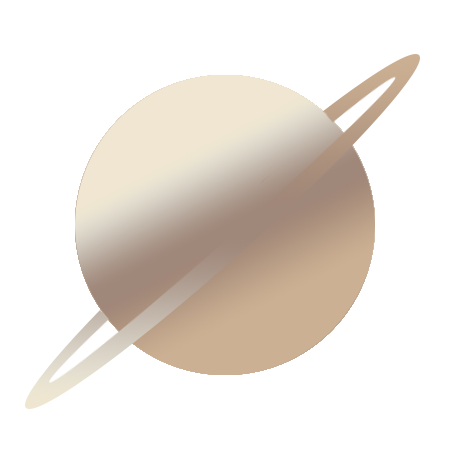
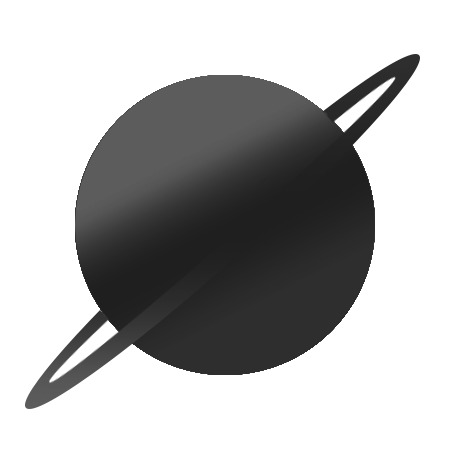
Refactoring requests

diff --git a/quinzena9/LabeX/labex/src/services/requests.js b/quinzena9/LabeX/labex/src/services/requests.js
@@ -1,23 +1,16 @@
 import axios from 'axios'
 import { BASE_URL } from '../constants/urls'
 
+// Get Token 
+const token = localStorage.getItem('Token')
+const auth = { headers: { auth: token } }
 
 // Aplicar para Viagem
 
 export const applyToTrip = (e, tripId, formValues, setFormValues) => {
     e.preventDefault()
-    
-    const { name, age, applicationText, profession, country } = formValues
 
-    const body = {
-        name,
-        age,
-        applicationText,
-        profession,
-        country
-    }
-
-    axios.post(`${BASE_URL}/trips/${tripId}/apply`, body)
+    axios.post(`${BASE_URL}/trips/${tripId}/apply`, formValues)
     .then(() => {
         alert('Sucess')
         setFormValues({
@@ -33,18 +26,10 @@ export const applyToTrip = (e, tripId, formValues, setFormValues) => {
 
 // Login
 
-export const login = (e, loginValues, setLoginValues, navigate) => {
-    
+export const login = (e, loginValues, setLoginValues, navigate) => { 
     e.preventDefault()
 
-    const { email, password } = loginValues
-
-    const body = {
-        email,
-        password
-    }
-
-    axios.post(`${BASE_URL}/login`, body).then(res => {
+    axios.post(`${BASE_URL}/login`, loginValues).then(res => {
         localStorage.setItem('Token', res.data.token)
         setLoginValues({
             email: '',
@@ -57,24 +42,10 @@ export const login = (e, loginValues, setLoginValues, navigate) => {
 
 // Create Trip
 
-export const createTrip = (e, newTripValues, token, setNewTripValues) => {
+export const createTrip = (e, newTripValues, setNewTripValues) => {
     e.preventDefault()
 
-    const { name, planet, date, description, durationInDays } = newTripValues
-
-    const AUTH = {headers: {
-        auth: token
-    }}
-
-    const body = {
-        name,
-        planet,
-        date,
-        description,
-        durationInDays
-    }
-
-    axios.post(`${BASE_URL}/trips`, body, AUTH)
+    axios.post(`${BASE_URL}/trips`, newTripValues, auth)
     .then(() => {
         alert('Trip Criada')
         setNewTripValues({
@@ -90,13 +61,9 @@ export const createTrip = (e, newTripValues, token, setNewTripValues) => {
 
 // Delete Trip 
 
-export const deleteTrip = (id, token, navigate) => {
+export const deleteTrip = (id, navigate) => {
 
-    const AUTH = {headers: {
-        auth: token
-    }}
-
-    axios.delete(`${BASE_URL}/trips/${id}`, AUTH)
+    axios.delete(`${BASE_URL}/trips/${id}`, auth)
     .then(() => {
         navigate(`/admin`)
     })
@@ -106,17 +73,9 @@ export const deleteTrip = (id, token, navigate) => {
 
 // Decide candidate
 
-export const decideCandidate = (tripId, candidateId, token, approve) => {
+export const decideCandidate = (tripId, candidateId, userResponse) => {
 
-    const AUTH = {headers: {
-        auth: token
-    }}
-
-    const body = {
-        approve: approve
-    }
-
-    axios.put(`${BASE_URL}/trips/${tripId}/candidates/${candidateId}/decide`, body, AUTH)
+    axios.put(`${BASE_URL}/trips/${tripId}/candidates/${candidateId}/decide`, userResponse, auth)
     .then(() => {}).catch('Error')
 
 }

diff --git a/quinzena9/LabeX/labex/src/pages/AdminHome/index.js b/quinzena9/LabeX/labex/src/pages/AdminHome/index.js
@@ -4,7 +4,7 @@ import { useRequestData } from '../../hooks/useRequestData'
 import { useRef } from 'react'
 
 // Styles
-import { Container, Section, AdminWrapper, PlanetCardsView, InfoBox, InfoTitle, ArrowBox, LeftArrow, RightArrow, TripInfoBox, LinkRouter, ButtonContainer } from './style'
+import { Container, Section, AdminWrapper, PlanetCardsView, InfoTitle, LeftArrow, RightArrow, TripInfoBox, LinkRouter, ButtonContainer, ArrowLeftBox, ArrowRigthBox } from './style'
 
 // Components
 import { Header } from '../../components/Header'
@@ -33,16 +33,11 @@ export function AdminHome() {
             <Header buttonText='Home' route='/'/>
             <Section>
                 <AdminWrapper>
-                    <InfoBox>
-                        <TripInfoBox>
-                            <InfoTitle>Viagens Cadastradas</InfoTitle>
-                            <ButtonContainer><Button text='Nova viagem' size='150px' route='/admin/create_new_trip'/></ButtonContainer>
-                        </TripInfoBox>
-                        <ArrowBox>
-                            <LeftArrow onClick={carouselLeftClick}/>
-                            <RightArrow onClick={carouselRightClick}/>
-                        </ArrowBox>
-                    </InfoBox>
+                    <TripInfoBox>
+                        <InfoTitle>Viagens Cadastradas</InfoTitle>
+                        <ButtonContainer><Button text='Nova viagem' size='150px' route='/admin/create_new_trip'/></ButtonContainer>
+                    </TripInfoBox>
+                    <ArrowLeftBox onClick={carouselLeftClick}><LeftArrow/></ArrowLeftBox>
                     <PlanetCardsView ref={carousel}>
                         {trips && trips.map(trip => {
                             return (
@@ -51,7 +46,9 @@ export function AdminHome() {
                                 </LinkRouter>
                             )
                         })}
+                        
                     </PlanetCardsView>
+                    <ArrowRigthBox onClick={carouselRightClick}><RightArrow/></ArrowRigthBox>
                 </AdminWrapper>
             </Section>
             <Footer/>

diff --git a/quinzena9/LabeX/labex/src/pages/AdminHome/style.js b/quinzena9/LabeX/labex/src/pages/AdminHome/style.js
@@ -32,6 +32,7 @@ export const AdminWrapper = styled.div`
     display: flex;
     flex-flow: column nowrap;
     justify-content: space-between;
+    position: relative;
 `
 export const PlanetCardsView = styled.div`
     max-width: 90vw;
@@ -51,16 +52,6 @@ export const InfoTitle = styled.h3`
     }
     @media (max-width: 550px) {
         font-size: 22px;
-    }
-`
-export const InfoBox = styled.div`
-    display: flex;
-    flex-flow: row nowrap;
-    justify-content: flex-start;
-    align-items: center;
-    @media (max-width: 550px) {
-        flex-flow: column;
-        align-items: center;
     }
 `
 export const ArrowBox = styled.div`
@@ -93,11 +84,11 @@ export const RightArrow = styled(LeftArrow)`
 export const TripInfoBox = styled.div`
     display: flex;
     align-items: center;
-    flex-grow: 1;
     justify-content: space-between;
     padding-right: 15px;
     padding-left: 5px;
     width: 100%;
+    margin-top: -8px;
     @media (max-width: 550px) {
         display: flex;
         flex-flow: column;
@@ -112,4 +103,35 @@ export const LinkRouter = styled(Link)`
 `
 export const ButtonContainer = styled.div`
     margin-top: 15px;
+    height: 100%;
+`
+export const ArrowRigthBox = styled.div`
+    display: flex;
+    justify-content: center;
+    align-items: center;
+    width: 40px;
+    height: 65%;
+    position: absolute;
+    top: 30%;
+    left: 0;
+    z-index: 1;
+    cursor: pointer;
+    &:hover {
+        background: linear-gradient(0deg, transparent 0%, #00000070 50%, transparent 100%);
+    }
+`
+export const ArrowLeftBox = styled.div`
+    display: flex;
+    justify-content: center;
+    align-items: center;
+    width: 40px;
+    height: 65%;
+    position: absolute;
+    top: 30%;
+    right: 0;
+    z-index: 1;
+    cursor: pointer;
+    &:hover {
+        background: linear-gradient(0deg, transparent 0%, #00000070 50%, transparent 100%);
+    }
 `

diff --git a/quinzena9/LabeX/labex/src/pages/TripInformation/index.js b/quinzena9/LabeX/labex/src/pages/TripInformation/index.js
@@ -5,7 +5,7 @@ import { useRequestData } from '../../hooks/useRequestData'
 import { useRef } from 'react'
 
 // Styles
-import { Container, Apresentation, TextWrapper, ImageWrapper, Title, TransformTitle, AboutTrip, ContentOne, ContentTwo, InfoTitle, InfoParagraph, PlanetsAvailable, InfoParagraphTwo, PlanetCardsView, InfoBox, ArrowBox, LeftArrow, RightArrow, LinkRouter } from './style'
+import { Container, Apresentation, TextWrapper, ImageWrapper, Title, TransformTitle, AboutTrip, ContentOne, ContentTwo, InfoTitle, InfoParagraph, PlanetsAvailable, InfoParagraphTwo, PlanetCardsView, InfoBox, ArrowLeftBox, LeftArrow, RightArrow, LinkRouter, ArrowRigthBox } from './style'
 
 // Components
 import { Header } from '../../components/Header'
@@ -51,11 +51,8 @@ export function TripInformation() {
             <PlanetsAvailable>
                 <InfoBox>
                     <InfoTitle>Viagens disponíveis</InfoTitle>
-                    <ArrowBox>
-                        <LeftArrow onClick={carouselLeftClick}/>
-                        <RightArrow onClick={carouselRightClick}/>
-                    </ArrowBox>
                 </InfoBox>
+                <ArrowLeftBox onClick={carouselLeftClick}><LeftArrow/></ArrowLeftBox>
                 <PlanetCardsView ref={carousel}>
                     {trips && trips.map(trip => {
                         return (
@@ -65,6 +62,7 @@ export function TripInformation() {
                         )
                     })}
                 </PlanetCardsView>
+                <ArrowRigthBox onClick={carouselRightClick}><RightArrow/></ArrowRigthBox>
             </PlanetsAvailable>
             <Footer/>
         </Container>

diff --git a/quinzena9/LabeX/labex/src/pages/TripInformation/style.js b/quinzena9/LabeX/labex/src/pages/TripInformation/style.js
@@ -135,9 +135,10 @@ export const PlanetsAvailable = styled.div`
     grid-area: PlanetsAvailable;
     margin: 0 auto;
     width: 95%;
+    position: relative;
 `
 export const PlanetCardsView = styled.div`
-    max-width: 95vw;
+    max-width: 94vw;
     height: 70%;
     display: flex;
     flex-direction: row;
@@ -161,25 +162,42 @@ export const InfoBox = styled.div`
     align-items: center;
     margin: 15px 0;
 `
-export const ArrowBox = styled.div`
+export const ArrowLeftBox = styled.div`
     display: flex;
-    justify-content: space-between;
-    width: 100px;
-    @media (max-width: 550px) {
-        width: 80px;
+    justify-content: center;
+    align-items: center;
+    width: 40px;
+    height: 80%;
+    position: absolute;
+    top: 15%;
+    right: -2.5vw;
+    z-index: 1;
+    cursor: pointer;
+    &:hover {
+        background: linear-gradient(0deg, transparent 0%, #000000 50%, transparent 100%);
     }
 `
 export const LeftArrow = styled(FaArrowLeft)`
     font-size: 34px;
-    cursor: pointer;
-    opacity: 0.8;
     transition: opacity 200ms ease-in-out;
-    &:hover {
-        opacity: 1;
-    }
 
 `
 export const RightArrow = styled(LeftArrow)`
     font-size: 34px;
     transform: rotate(180deg);
+`
+export const ArrowRigthBox = styled.div`
+    display: flex;
+    justify-content: center;
+    align-items: center;
+    width: 40px;
+    height: 80%;
+    position: absolute;
+    top: 15%;
+    left: -3vw;
+    z-index: 1;
+    cursor: pointer;
+    &:hover {
+        background: linear-gradient(0deg, transparent 0%, #000000 50%, transparent 100%);
+    }
 `

diff --git a/quinzena9/LabeX/labex/src/pages/TripDetails/index.js b/quinzena9/LabeX/labex/src/pages/TripDetails/index.js
@@ -39,7 +39,7 @@ export function TripDetails() {
                     <TitleAndButtonBox>
                         <Title>Candidatos</Title>
                         <ButtonsBox>
-                            <div onClick={() => deleteTrip(params.id, token, navigate)}>
+                            <div onClick={() => deleteTrip(params.id, navigate)}>
                                 <Button size='150px' text='Deletar Viagem' margin='0 10px 0 0' />
                             </div>
                             <Button size='150px' text='Aprovados' route={`/admin/trip_details/${params.id}/approved`}/>
@@ -59,8 +59,8 @@ export function TripDetails() {
                                         <Country>{country}</Country>
                                     </PrimaryInfo>
                                     <Icons>
-                                        <CheckIcon onClick={() => decideCandidate(params.id, id, token, 'true')}/>
-                                        <CloseIcon onClick={() => decideCandidate(params.id, id, token, 'false')}/>
+                                        <CheckIcon onClick={() => decideCandidate(params.id, id, {approve: true})}/>
+                                        <CloseIcon onClick={() => decideCandidate(params.id, id, {approve: false})}/>
                                     </Icons>
                                     <ApplicationText>{applicationText}</ApplicationText>
                                 </ProfileWrapper>

diff --git a/quinzena9/LabeX/labex/src/components/CardPlanet/index.js b/quinzena9/LabeX/labex/src/components/CardPlanet/index.js
@@ -4,7 +4,7 @@ import { Container, Title, CaracteristicsWrapper, Caracteristic, Price, Value, I
 // import Venus from '../../assets/Images/planets/venus.png'
 // import Mars from '../../assets/Images/planets/mars.png'
 // import Jupiter from '../../assets/Images/planets/jupiter.png'
-// import Saturn from '../../assets/Images/planets/saturn.png'
+import Saturn from '../../assets/Images/planets/saturn.png'
 // import Uranus from '../../assets/Images/planets/uranus.png'
 // import Neptune from '../../assets/Images/planets/neptune.png'
 
@@ -12,8 +12,6 @@ import { Container, Title, CaracteristicsWrapper, Caracteristic, Price, Value, I
 // const planetImage = [Mercury, Venus, Mars, Jupiter, Saturn, Uranus, Neptune]
 
 export function CardPlanet({ trip }) {
-
-    // console.log(trip)
 
     const { name, planet, description, date, durationInDays } = trip
 
@@ -27,8 +25,8 @@ export function CardPlanet({ trip }) {
                         <Caracteristic>Duração: {durationInDays} dias</Caracteristic>
                         <Caracteristic>Data: {date}</Caracteristic>
                     </CaracteristicsWrapper>
-                    {/* <Price>Por R$ <Value>{''}</Value></Price>
-                    <Image src={''} alt={planet}/> */}
+                    {/* <Price>Por R$ <Value>{''}</Value></Price> */}
+                    <Image src={Saturn} alt={planet}/>
             </Container>
         </>
     )

diff --git a/quinzena9/LabeX/labex/src/pages/CreateNewTrip/index.js b/quinzena9/LabeX/labex/src/pages/CreateNewTrip/index.js
@@ -21,7 +21,7 @@ export function CreateNewTrip() {
         <Container>
             <Header buttonText='Voltar' route='/admin'/>
             <Section>
-                <FormWrapper onSubmit={(e) => createTrip(e, newTripValues, token, setNewTripValues)}>
+                <FormWrapper onSubmit={(e) => createTrip(e, newTripValues, setNewTripValues)}>
                     <Title>Nova Viagem</Title>
                     <InputBox>
                         <Label>Nome</Label>

diff --git a/quinzena9/LabeX/labex/src/hooks/useRequestData.js b/quinzena9/LabeX/labex/src/hooks/useRequestData.js
@@ -1,6 +1,5 @@
 import axios from "axios";
-import { useState } from 'react'
-import { useEffect } from "react";
+import { useState, useEffect } from 'react'
 
 export function useRequestData(BASE_URL, method, endpoint, body, token) {
 
